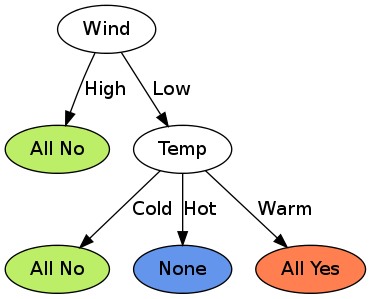
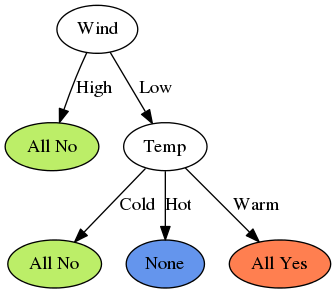
añadidas imágenes, script para generar los .dot, y empezada la primera transparencia

diff --git a/C45/PRESENTACION.tex b/C45/PRESENTACION.tex
@@ -1,4 +1,4 @@
-\documentclass[10pt]{beamer}
+\documentclass[10pt, xcolor=table]{beamer}
 
 \usetheme{m}
 
@@ -24,6 +24,7 @@
 
 \metroset{inner/sectiontitleformat=regular}
 \metroset{outer/frametitleformat=regular}
+\metroset{block=fill}
 
 \newcommand\sectionDark[1]{{\metroset{background=dark} \section{#1} }}
 \begin{document}
